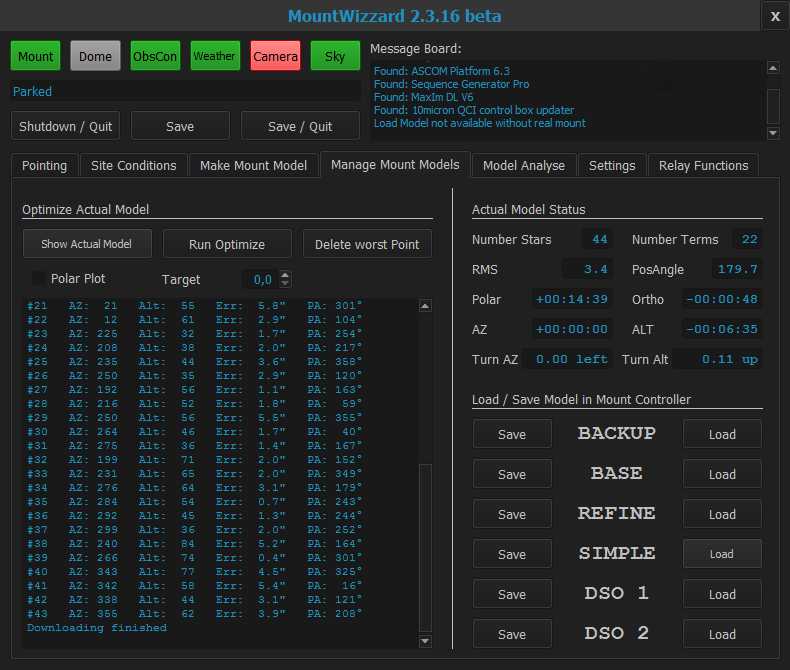
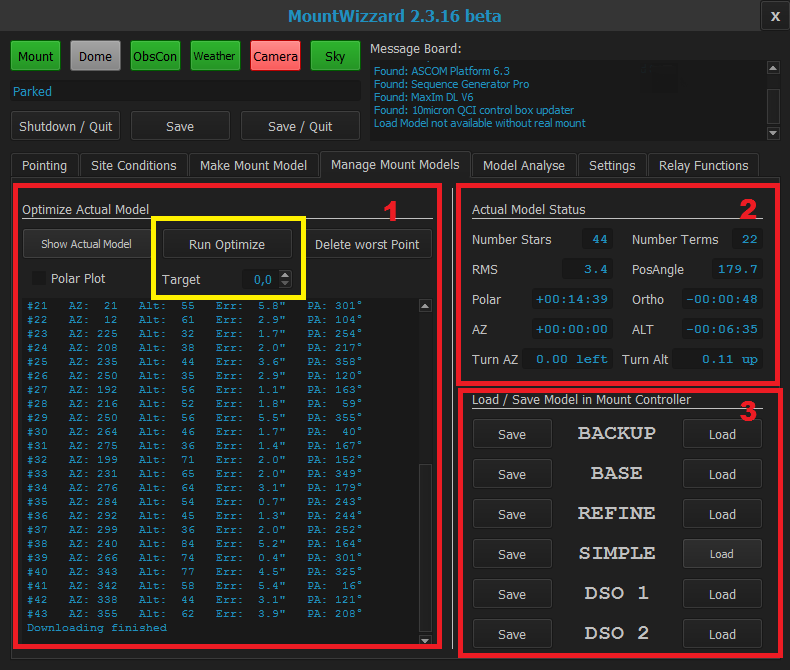
update documentation

Changed region(s): [[0.0, 0.2687, 1.0, 0.9851]]

diff --git a/mountwizzard/docu/firststeps4.md b/mountwizzard/docu/firststeps4.md
@@ -1,14 +1,47 @@
-## Manage Mount Model TAB
+## Managing Mount Models
 
 <img src="../pics/tab_managemountmodel.png"/>
 
-### Area 1
+Managing mount models is an advanced part of working with MountWizzard and you setup. If you don't have a need for that, it's fine.
+But let's explain what you could do.
 
-#### -
+First of all you should be aware that with MountWizzard you are using two computers (mount computer) and the one where MountWizzard
+is installed to manage your pointing models. the design of the 10micron mount computer is done in a way to be able to to all things
+without an additional computer, just by using the handcontroller attached to the mount. This means that actually all computation of
+models only takes place inside the mount computer. From the outside world you only could feed the data, all other things happen inside
+the mount computer. Internal states, data and many more information in not accessible from outside. And the data internally stored is
+the data which is needed for the model. So all information you have from the model making process (temperatures, points, config of
+setup and especially all images and camera topics, results from plate solver) are lost after you made a model.
+
+MountWizzard keeps all this data and stores it in a second set of model data outside the mount. Done this you have access to all data
+to recap events, you would like to take care of to optimise you gear or setup. MountWizzard tries to keep these two data set of one
+pointing model synced like "twins". If everything works out fine, not problem, if errors happen in the mount or MountWizzard or you
+interfere by doing manual steps at the same time with the handcontroller for example, things might get mixed up. Not a big deal,
+because you still have your pointing model in the mount - so imaging can talk off. The part you will miss is the extended analyse and
+tweaking capabilities. You recover automatically with the next successful model making run.
+
+### Area 1 - Optimise actual model
+
+In this area you could check the data of the actual used pointing model data. Once pressed "show actual model", the mount computer
+data will be downloaded and you get the list of model stars, their location in hemisphere and error values.
+
+<b>delete worst point</b> allows you to remove the point with the largest error from the list of model stars. This makes the mount
+computer recalculating the pointing model and normally results in a better overall model, if that removed point was an outlayer. After
+that, the actual model will by downloaded again and the list of stars (now on star less) will be shown.
+
+<b>run optimise</b>: if you are lazy, MountWizzard could do the job for you automatically. You could set a target value of overall
+error (RMS) for your model (yellow part) removing of the worst point will be done as long as the actual error is higher than the desired
+one. In case the desired model error could not be reached, the mount computer will have removed (or emptied) your complete model.
+But do not hesitate to use this function: before starting the optimisation, the actual model will be saved as "BACKUP"
+(see area 3 section). If the optimisation fail, just load the "BACKUP" and start over.
+
+I would recommend to lower the target RMS step by step and see, how much stars will be removed to get to the next level. Over time
+you get a good feeling how the numbers could be.
+
 
 ### Area 2
 
-#### -
+### Area 3
 
 [Back to first steps](firststeps.md)
 
